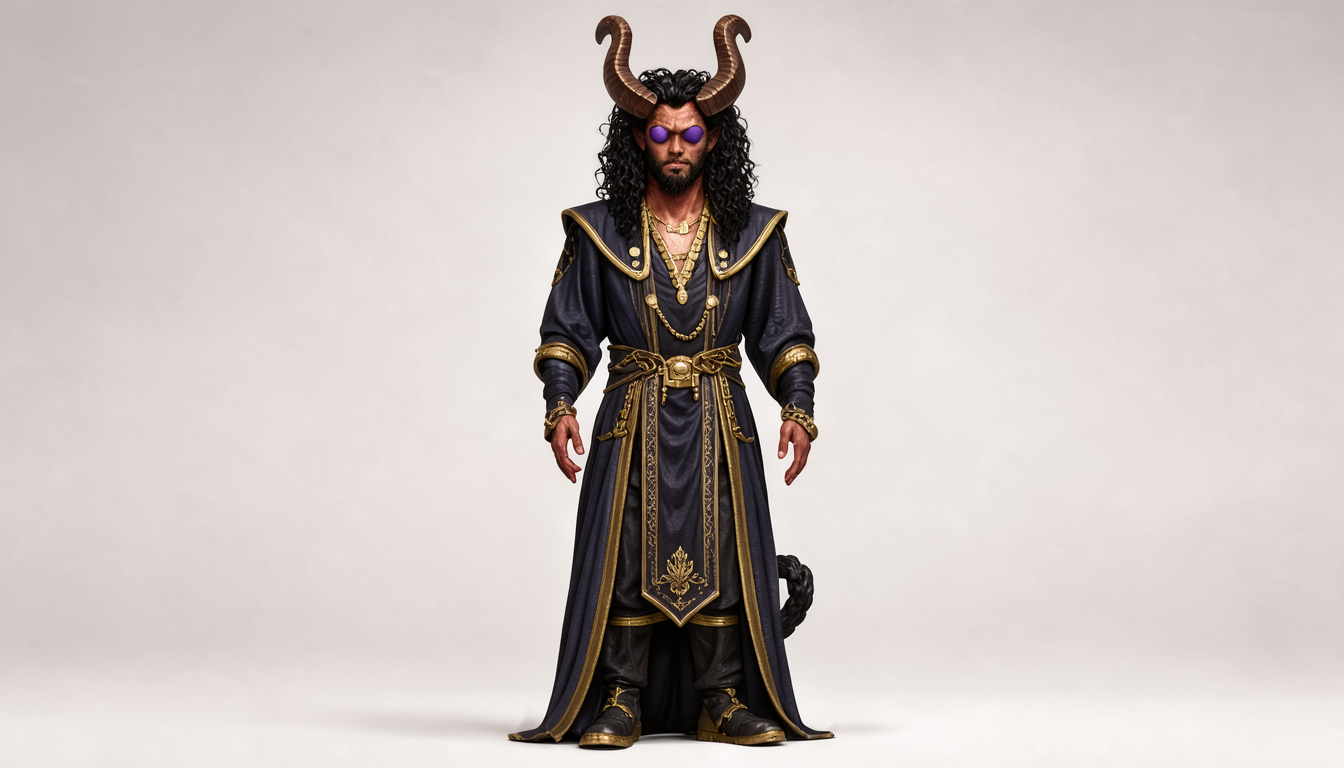
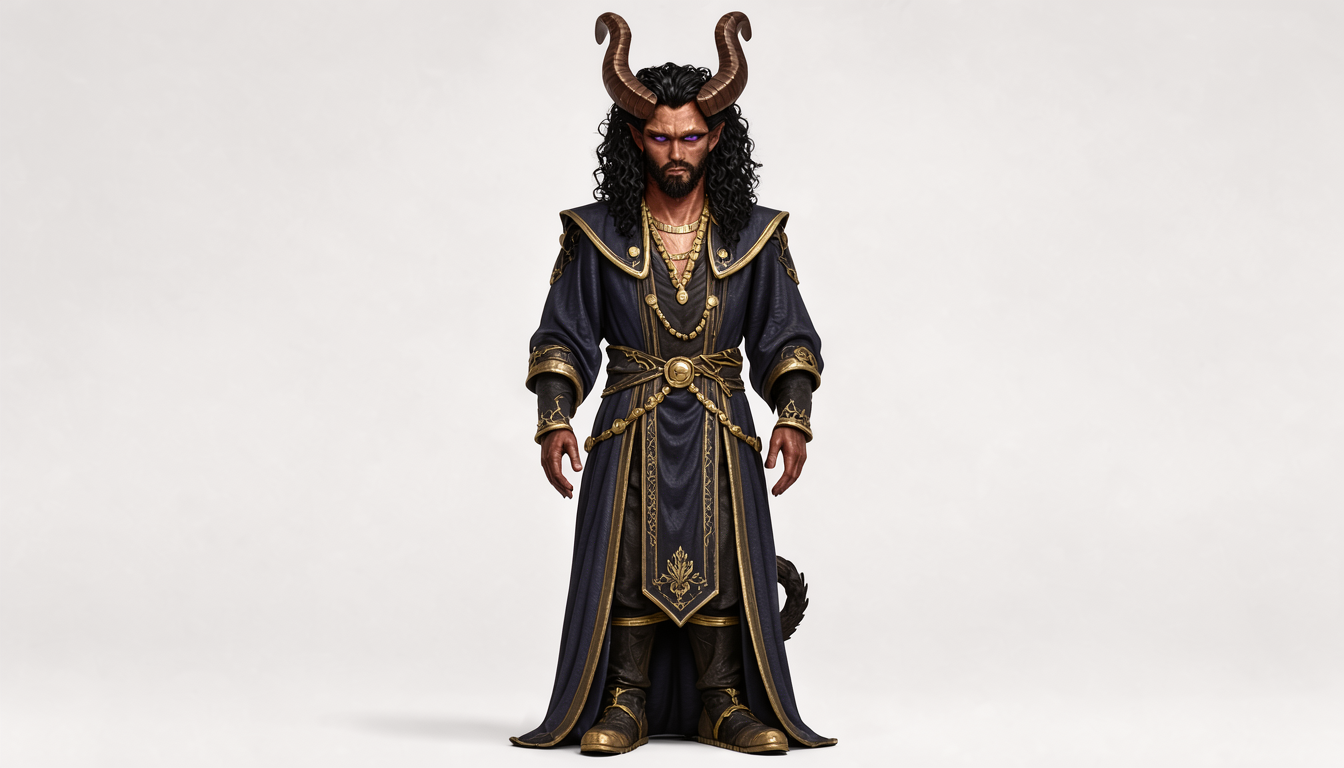
sheet-test: Keechwah lab batch 17 — lidded eyes with iris fill, versioned snapshot

diff --git a/tests/test_keechwahlab.py b/tests/test_keechwahlab.py
@@ -33,15 +33,16 @@ ARM_B_BLOCK = (
     "gold jewelry, NO wings, sharply pointed canines, a thick tiefling tail behind him, "
     "exactly two arms"
 )
-# Batch 16: geometry over anatomy — batch-15 verdict says horns are done
-# but eyes need work everywhere. Stop asking for eyes (which trigger the
-# sclera/pupil/glow machinery) and ask for spheres in the sockets instead.
-BATCH16_BLOCK = (
+# Batch 17: keep the apparatus, replace the fill — batch-16 proved the word
+# "eyes" supplies eyelids/shape (orbs without them read as bugs). Narrow
+# almond eyes under heavy lids, iris fill solid matte purple.
+BATCH17_BLOCK = (
     "adult male tiefling warlock, warm bronze-tan skin with a faint red cast, "
     "long curly black hair, goatee, large curved bronze-brown horns rising upright "
     "side by side from the crown of his skull with bases buried deep in his thick "
-    "curly hair, solid matte purple spheres instead of eyes with no visible sclera "
-    "or pupil, male facial features, dark blue/gold robes, gold jewelry, NO wings, "
+    "curly hair, narrow almond-shaped human eyes under heavy eyelids, solid matte "
+    "purple irises filling the entire visible eye with no visible sclera or pupil, "
+    "male facial features, dark blue/gold robes, gold jewelry, NO wings, "
     "sharply pointed canines, a thick tiefling tail behind him, exactly two arms"
 )
 
@@ -55,7 +56,7 @@ class TestKeechwahLabDescriptions(unittest.TestCase):
 
     def test_baseline_block_is_arm_b_verbatim(self):
         text, sources = self.load_block()
-        self.assertEqual(text, BATCH16_BLOCK, "batch-16 block must carry spheres-instead-of-eyes")
+        self.assertEqual(text, BATCH17_BLOCK, "batch-17 block must carry lidded eyes with iris fill")
         self.assertIn("character-bible/Sheets/Keechwah.pdf", sources)
         self.assertIn(KEECHWAH_URL, sources)
         self.assertTrue(any("bible.md locked chunks" in s for s in sources))

diff --git a/character-bible/sheet-test/keechwah-lab/descriptions.md b/character-bible/sheet-test/keechwah-lab/descriptions.md
@@ -8,7 +8,7 @@ hooves, duplicate Keechwahs.
 
 ## Keechwah (keechwah)
 
-adult male tiefling warlock, warm bronze-tan skin with a faint red cast, long curly black hair, goatee, large curved bronze-brown horns rising upright side by side from the crown of his skull with bases buried deep in his thick curly hair, solid matte purple spheres instead of eyes with no visible sclera or pupil, male facial features, dark blue/gold robes, gold jewelry, NO wings, sharply pointed canines, a thick tiefling tail behind him, exactly two arms
+adult male tiefling warlock, warm bronze-tan skin with a faint red cast, long curly black hair, goatee, large curved bronze-brown horns rising upright side by side from the crown of his skull with bases buried deep in his thick curly hair, narrow almond-shaped human eyes under heavy eyelids, solid matte purple irises filling the entire visible eye with no visible sclera or pupil, male facial features, dark blue/gold robes, gold jewelry, NO wings, sharply pointed canines, a thick tiefling tail behind him, exactly two arms
 
 Sources:
 - character-bible/Sheets/Keechwah.pdf

diff --git a/character-bible/sheet-test/keechwah-lab/batches/batch17/descriptions.md b/character-bible/sheet-test/keechwah-lab/batches/batch17/descriptions.md
@@ -1,0 +1,16 @@
+# Keechwah Lab — baseline block for seed-robustness testing
+
+Single block source for `keechwah-lab`. Batch 1 is the Arm B Keechwah
+block verbatim (the starting point, as the Shade lab began from its
+Arm B block). Known failure modes from the bible NEVER list to watch
+for: female render, wings (Verruth confusion — Keechwah has NONE),
+hooves, duplicate Keechwahs.
+
+## Keechwah (keechwah)
+
+adult male tiefling warlock, warm bronze-tan skin with a faint red cast, long curly black hair, goatee, large curved bronze-brown horns rising upright side by side from the crown of his skull with bases buried deep in his thick curly hair, narrow almond-shaped human eyes under heavy eyelids, solid matte purple irises filling the entire visible eye with no visible sclera or pupil, male facial features, dark blue/gold robes, gold jewelry, NO wings, sharply pointed canines, a thick tiefling tail behind him, exactly two arms
+
+Sources:
+- character-bible/Sheets/Keechwah.pdf
+- https://www.dndbeyond.com/species/7-tiefling
+- bible.md locked chunks (main checkout)

diff --git a/character-bible/sheet-test/keechwah-lab/README.md b/character-bible/sheet-test/keechwah-lab/README.md
@@ -29,6 +29,7 @@ overwrite — every generation snapshots to `batches/batch<N>/` with its
 | batch15 | 20-seed survey on the batch-14 block (master list seed 20261109, disjoint from all prior) — hunting k03's horns + k04's eyes in one frame | keechwah_r01–r20 |
 | batch16 | Geometry over anatomy: `solid matte purple spheres instead of eyes` (batch-15 verdict — horns done via survey, eyes need work everywhere) | same k01–k04 |
 | batch16 verdict (agent review 2026-11-02) | Backfire: literal glowing orbs — bug eyes on all four (worst k03, plus sleeveless wardrobe drift there). Removing the word "eyes" also removed eyelids/shape context that made eyes read as eyes. Lesson: the eye APPARATUS (lids, almond shape) is load-bearing; only the iris fill wants replacing. | — |
+| batch17 | Lidded eyes with iris fill: apparatus kept, only the fill replaced (batch-16 lesson) | same k01-k04 |
 
 ## Verdicts
 
